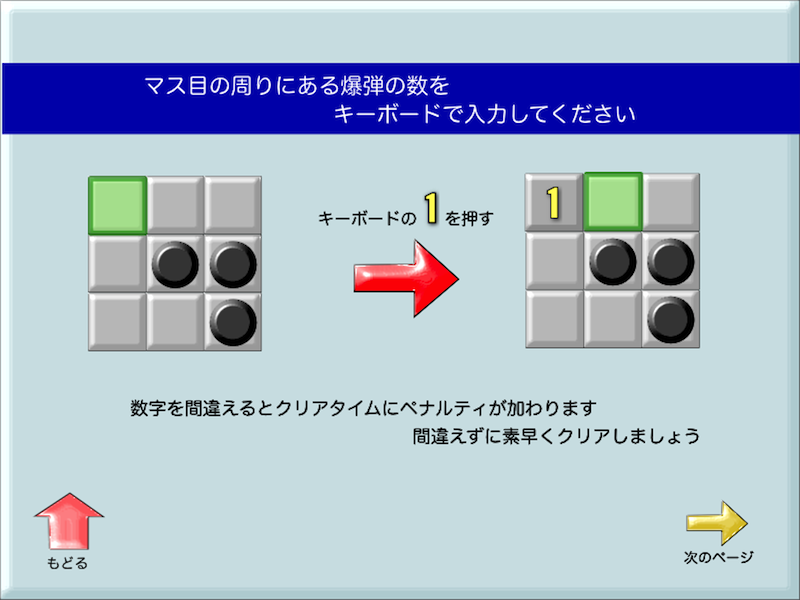
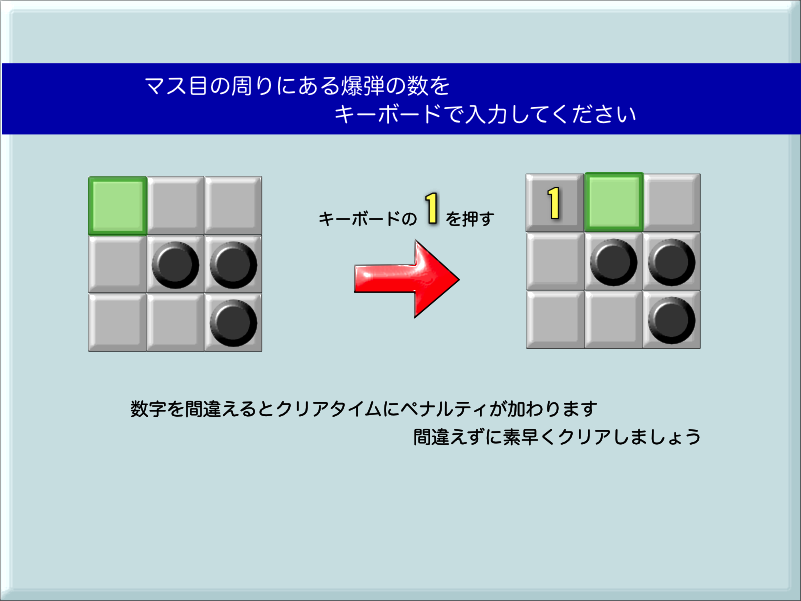
遊び方ページにボタン追加

diff --git a/howto_scene.js b/howto_scene.js
@@ -1,0 +1,122 @@
+/**
+ * 遊び方のシーン
+ * @class
+ * @extends Scene
+ * @property {数値} _current 現在のページ番号
+ * @proeprty {Page配列} _pages ページオブジェクトの配列
+ */
+var HowtoScene = Class.create(Scene, {
+	_current: 0,
+	_pages: [],
+	
+	// コンストラクタ
+	initialize: function() {
+		Scene.call(this);
+	},
+	
+	/**
+	 * 次のページを表示
+	 * @function
+	 * @memberOf HowtoScene
+	 */
+	next: function() {
+		if(this._current < this._pages.length - 1) {
+			this._pages[this._current].slide(-1);
+			this._current++;
+		}
+	},
+	
+	/**
+	 * 前のページを表示
+	 * @function
+	 * @memberOf HowtoScene
+	 */
+	back: function() {
+		if(this._current > 0) {
+			this._current--;
+			this._pages[this._current].slide(1);
+		}
+	},
+	
+	/*+
+	 * タイトル画面に戻る
+	 * @function
+	 * @memberOf HowtoScene
+	 */
+	title: function() {
+		game.returnTitle();
+	},
+	
+	/**
+	 * 画面に表示された時に実行される処理
+	 * @function
+	 * @memberOf HowtoScene
+	 */
+	onenter: function() {
+		// ページリストの作成
+		this._pages = [];
+		this._pages.push(new Page(0, 'home', 'next'));
+		this._pages.push(new Page(1, 'back', 'next'));
+		this._pages.push(new Page(2, 'back', 'home'));
+		
+		// ページを表示
+		this.addChild(this._pages[2]);
+		this.addChild(this._pages[1]);
+		this.addChild(this._pages[0]);
+		
+		// 矢印キーでページめくり
+		this.addEventListener(Event.RIGHT_BUTTON_DOWN, this.next);
+		this.addEventListener(Event.LEFT_BUTTON_DOWN, this.back);
+		this.addEventListener(Event.UP_BUTTON_DOWN, this.title);
+	}
+});
+
+/**
+ * 遊び方のページ
+ * @class
+ * @extends Group
+ * @param {数値} number ページ番号
+ * @param {文字列} leftButton 左側に表示するボタンの種類。
+ * @param {文字列} rightButton 右側に表示するボタンの種類。
+ * @property {オブジェクト} _buttons ボタンが入っているオブジェクト。_buttons[kind]で参照する。kind = next/back/home。
+ */
+var Page = Class.create(Group, {
+	_buttons: null,
+	
+	// コンストラクタ
+	initialize: function(number, leftButton, rightButton) {
+		Group.call(this);
+		
+		// 画像の設定
+		var background = new Sprite(game.width, game.height);
+		background.image = game.assets['howto' + number + '.png'];
+		this.addChild(background);
+
+		// ボタンの準備
+		var self = this;
+		this._buttons = {};
+		this._buttons.next = new Button('next', function() {self.parentNode.next()}, 71, 66);
+		this._buttons.back = new Button('back', function() {self.parentNode.back()}, 71, 70);
+		this._buttons.home = new Button('home', function() {self.parentNode.title()}, 83, 82);
+		
+		// 左のボタンを追加
+		this._buttons[leftButton].x = 25;
+		this._buttons[leftButton].y = 490;
+		this.addChild(this._buttons[leftButton]);
+		
+		// 右のボタンを追加
+		this._buttons[rightButton].x = 700;
+		this._buttons[rightButton].y = 490;
+		this.addChild(this._buttons[rightButton]);
+	},
+	
+	/**
+	 * スライドする
+	 * @function
+	 * @memberOf Page
+	 * @param {数値} direction 左にスライドするなら-1, 右にスライドするなら1
+	 */
+	slide: function(direction) {
+		this.tl.moveBy(direction * game.width, 0, 6);
+	}
+});

diff --git a/mine.js b/mine.js
@@ -33,7 +33,10 @@ var Game = Class.create(Core, {
 			'start.mp3',
 			'howto0.png',
 			'howto1.png',
-			'howto2.png'
+			'howto2.png',
+			'home_button.png',
+			'next_button.png',
+			'back_button.png'
 		];
 		for(var i = 0; i < preloads.length; i++) {
 			this.preload(preloads[i]);
@@ -79,22 +82,9 @@ var Game = Class.create(Core, {
 	 * @function
 	 */
 	showHowto: function() {
-		var pages = [];
-		
-		// ページの作成
-		for(var i = 0; i < 3; i++) {
-			var page = new Sprite(game.width, game.height);
-			page.image = game.assets['howto' + i + '.png'];
-			page.addEventListener(Event.TOUCH_START, function() {
-				this.tl.moveTo(-game.width, 0, 6).removeFromScene();
-			});
-			pages.push(page);
-		}
-		
-		// ページの表示
-		for(var i = 2; i >= 0; i--) {
-			game.currentScene.addChild(pages[i]);
-		}
+		var howtoScene = new HowtoScene();
+		game.popScene()
+		game.pushScene(howtoScene);
 	},
 	
 	/**

diff --git a/index.html b/index.html
@@ -8,6 +8,7 @@
 		<script src="mine.js"></script>
 		<script src="title_scene.js"></script>
 		<script src="game_scene.js"></script>
+		<script src="howto_scene.js"></script>
 		<style>
 			body {
 				background-color: gray;
